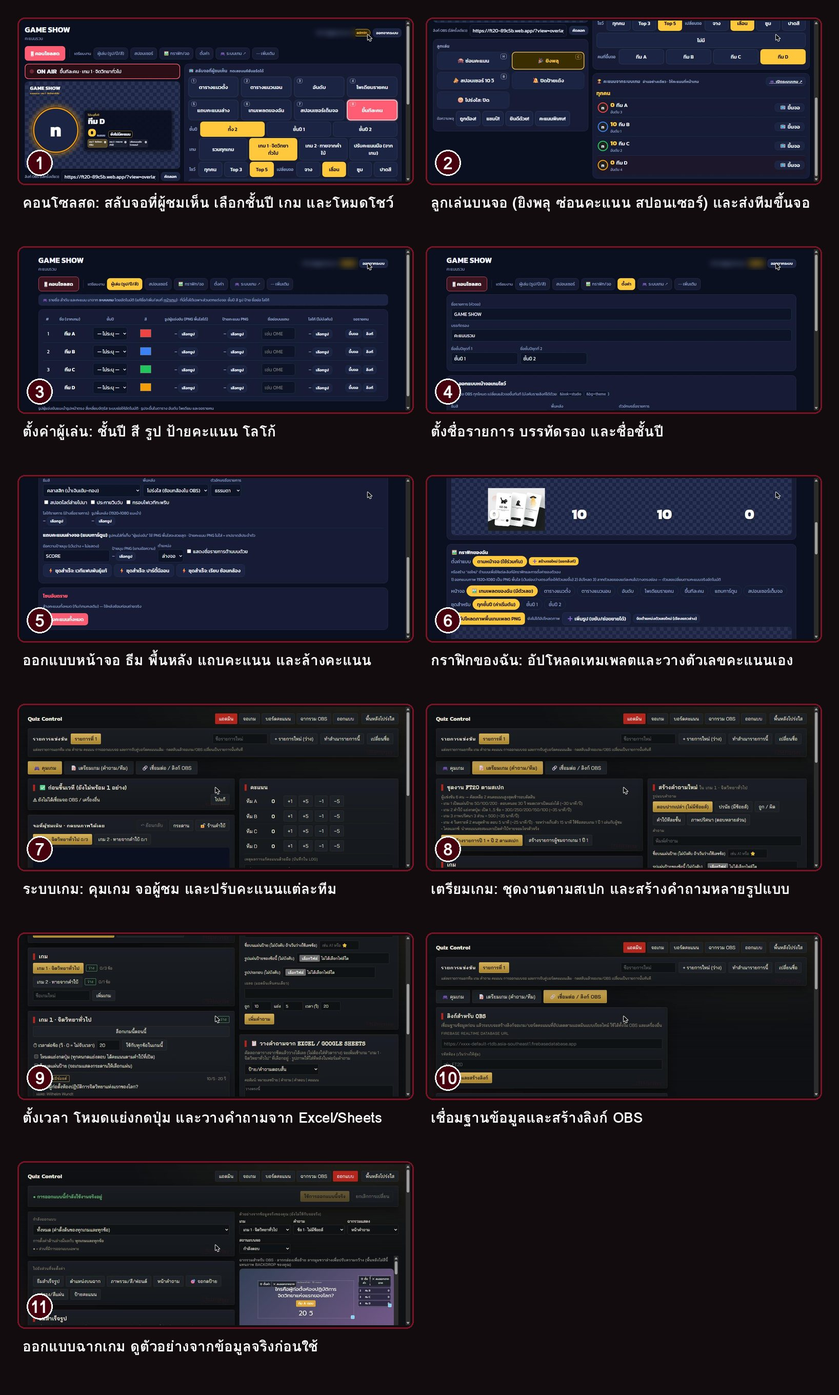
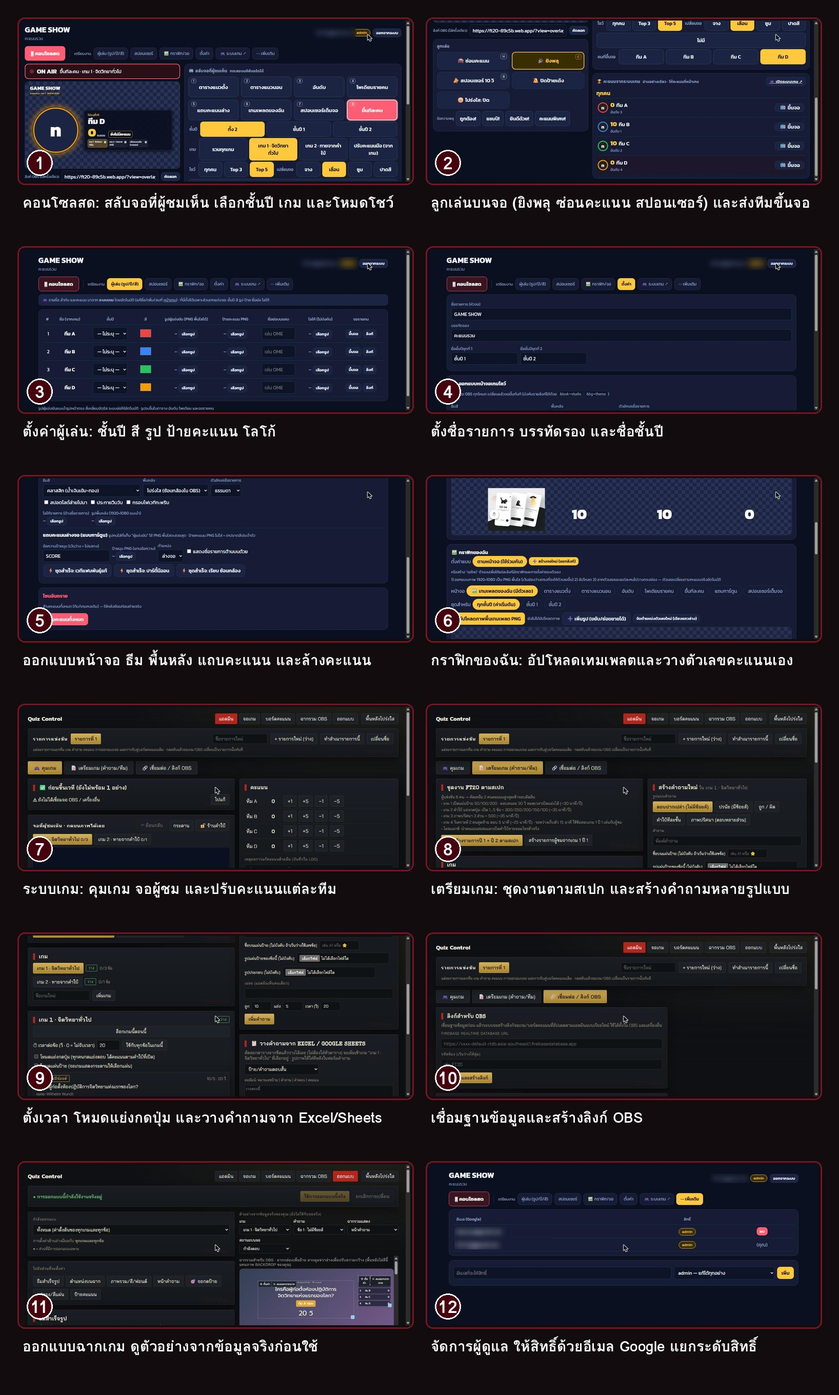
เพิ่มหน้าหลังบ้านที่ขาด: เกียรติบัตร แผนผัง ผู้ดูแล
Claude-Session: https://claude.ai/code/session_01VgfHAMhYG5DNCbxUEYJbTf

Changed region(s): [[0.4988, 0.8125, 0.9664, 0.9688]]

diff --git a/index.html b/index.html
@@ -301,7 +301,7 @@ body.has-bar{padding-bottom:84px}
 <script src="https://www.gstatic.com/firebasejs/10.12.2/firebase-storage-compat.js"></script>
 <script src="firebase-config.js"></script>
 <script>try{ if (window.FIREBASE_CONFIG && window.FIREBASE_CONFIG.apiKey && !/YOUR_/.test(window.FIREBASE_CONFIG.apiKey)) firebase.initializeApp(window.FIREBASE_CONFIG); }catch(e){}</script>
-<script type="application/json" id="seed">{"v": 1, "profile": {"brand": "Daonuea", "name": "Thanawat Sangnon", "tagline": "เล่าโจทย์มา แล้วมาสร้างของที่ใช้งานจริงไปด้วยกัน", "note": "เว็บนี้และผลงานทั้งหมดสร้างด้วย AI", "contacts": [{"label": "LINE", "value": "nasa532", "url": "https://line.me/ti/p/~nasa532"}, {"label": "โทร", "value": "063 161 2417"}, {"label": "อีเมล", "value": "hh7uiijj@gmail.com"}, {"label": "Instagram", "value": "n.uueeaa", "url": "https://www.instagram.com/n.uueeaa/"}, {"label": "Facebook", "value": "Thanawat Sangnon"}]}, "folders": [{"id": "code", "name": "เว็บเขียนโค้ด", "en": "Web & Code", "color": "#C8102E", "layout": "cards", "desc": "เว็บแอปและระบบที่ใช้งานจริง กดการ์ดเพื่อดูว่าทำงานยังไง ใช้ระบบอะไร และขั้นตอนการใช้งาน"}, {"id": "video", "name": "วิดีโอ", "en": "Video", "color": "#E9C9A1", "layout": "gallery", "desc": "คลิปและงานตัดต่อ"}, {"id": "info", "name": "อินโฟกราฟิก", "en": "Infographic", "color": "#F0B8C2", "layout": "gallery", "desc": "งานสรุปข้อมูลเป็นภาพ"}, {"id": "motion", "name": "โมชันกราฟิก", "en": "Motion Graphic", "color": "#A9B8D6", "layout": "gallery", "desc": "งานภาพเคลื่อนไหว"}, {"id": "photo", "name": "ภาพถ่าย", "en": "Photography", "color": "#D9D2C5", "layout": "gallery", "desc": "งานถ่ายภาพ"}], "works": [{"id": "w-psych", "folder": "code", "title": "Psych-Match", "sub": "เกม · ใช้งานจริง", "summary": "เกมจับคู่ไพ่ใน LINE ให้จับคู่นักจิตวิทยากับทฤษฎีให้ครบ 8 คู่ จากไพ่ 16 ใบ", "how": ["เปิดเกมจากลิงก์ใน LINE แล้วกดเริ่ม", "กระดานมีไพ่ 16 ใบคว่ำอยู่ พลิกได้ทีละ 2 ใบ", "จับคู่นักจิตวิทยากับทฤษฎีให้ครบ 8 คู่", "จบเกมแล้วดูสรุปพร้อมคำอธิบาย และแชร์ผลได้"], "system": ["LINE LIFF เปิดในแอป LINE ได้เลย ไม่ต้องติดตั้งเพิ่ม", "เว็บเกมที่ทำงานในเบราว์เซอร์มือถือ", "สร้างด้วย AI"], "benefit": ["ทบทวนนักจิตวิทยาและทฤษฎีผ่านการเล่น", "เล่นจบได้ในไม่กี่นาที", "แชร์ผลให้เพื่อนมาเล่นต่อได้"], "tags": ["LINE LIFF", "Web game"], "link": "https://liff.line.me/2012402403-AfPHXGeh", "linkLabel": "เปิดเกม", "media": [{"type": "image", "src": "media/psych-cover.jpg", "w": 1280, "h": 529}, {"type": "image", "src": "media/psych-steps.jpg", "w": 1600, "h": 914, "cap": "ขั้นตอนการเล่น"}], "purpose": "ให้ผู้เล่นทบทวนนักจิตวิทยาและทฤษฎีผ่านเกมจับคู่ไพ่ ที่เล่นได้ในแอป LINE โดยไม่ต้องติดตั้งอะไรเพิ่ม", "details": ["เกมไพ่ 16 ใบ รวมเป็น 8 คู่ ระหว่างนักจิตวิทยากับทฤษฎี", "เปิดเล่นจากลิงก์ใน LINE ผ่าน LINE LIFF", "พลิกไพ่ได้ทีละ 2 ใบ จบเกมแล้วมีหน้าสรุปพร้อมคำอธิบาย", "แชร์ผลให้เพื่อนมาเล่นต่อได้", "สร้างด้วย AI"]}, {"id": "w-ft20", "folder": "code", "title": "FT20 Quiz & Scoreboard", "sub": "เกม · ใช้งานจริง", "summary": "เกมตอบคำถามและบอร์ดคะแนนสำหรับงานแฟนพันธุ์แท้จิตวิทยา ครั้งที่ 20 ส่งภาพขึ้นจอเวทีผ่าน OBS", "how": ["ทีมงานคุมเกมและเปิดคำถามจากหน้าควบคุม", "ให้หรือหักคะแนนแต่ละทีม บอร์ดอัปเดตทันที", "จอบอร์ดคะแนนส่งขึ้นจอเวทีผ่าน OBS"], "system": ["Firebase Hosting", "หน้าควบคุมกับจอแสดงผลแยกกัน", "ใช้กับ OBS ได้", "สร้างด้วย AI"], "benefit": ["คุมเกมบนเวทีได้จากเครื่องเดียว", "ผู้ชมเห็นคะแนนสดตลอดเกม", "ใช้ซ้ำได้กับหลายรอบการแข่ง"], "tags": ["Firebase", "OBS"], "link": "https://ft20-89c5b.web.app", "linkLabel": "เปิดเว็บ", "media": [{"type": "image", "src": "media/ft20-cover.jpg", "w": 896, "h": 370}, {"type": "image", "src": "media/ft20-control.jpg", "w": 896, "h": 370, "cap": "หน้าควบคุมเกม"}, {"type": "image", "src": "media/ft20-steps.jpg", "w": 1396, "h": 2555, "cap": "ขั้นตอนการใช้งาน"}, {"type": "image", "src": "media/ft20-admin.jpg", "w": 1636, "h": 2720, "cap": "ระบบหลังบ้าน (เบลอข้อมูลส่วนตัวแล้ว)"}], "purpose": "ใช้คุมเกมตอบคำถามและแสดงคะแนนสดบนเวทีของงานแฟนพันธุ์แท้จิตวิทยา ครั้งที่ 20", "details": ["แยกเป็นหน้าควบคุมสำหรับทีมงาน กับจอบอร์ดคะแนนสำหรับผู้ชม", "ทีมงานเปิดคำถาม ให้หรือหักคะแนนแต่ละทีม บอร์ดอัปเดตทันที", "ส่งภาพจอบอร์ดขึ้นจอเวทีผ่าน OBS", "โฮสต์บน Firebase Hosting ใช้ซ้ำได้กับหลายรอบการแข่ง", "สร้างด้วย AI"]}, {"id": "w-case20", "folder": "code", "title": "CASE 20 แฟ้มคดีปริศนา", "sub": "เกม · ทำเสร็จแล้ว", "summary": "เกมสืบสวนบนมือถือ เล่นเป็นนักสืบ ตรวจหลักฐาน และไขคดีให้ได้ภายใน 15 นาที", "how": ["ผู้เล่นรับแฟ้มคดีบนมือถือ และรับบทเป็นนักสืบ", "ไล่ตรวจหลักฐานทีละชิ้นเพื่อหาเบาะแส", "สรุปคำตอบ แล้วไขคดีภายใน 15 นาที"], "system": ["เว็บหน้าเดียวที่เปิดในเบราว์เซอร์มือถือ ไม่ต้องติดตั้งแอป", "ธีมแฟ้มคดีสีดำ-เหลือง", "สร้างด้วย AI"], "benefit": ["เป็นกิจกรรมเกมสืบสวนที่เล่นจบไว", "เล่นได้ทันทีจากลิงก์เดียว", "ฝึกสังเกต คิดวิเคราะห์ และสรุปคำตอบ"], "tags": ["Mobile web", "Game"], "link": "https://claude.ai/artifact/5Rtr4K4ATSGaCnp6dkQroZ", "linkLabel": "เปิดเกม", "media": [{"type": "image", "src": "media/case20-cover.jpg", "w": 896, "h": 370}, {"type": "image", "src": "media/case20-steps.jpg", "w": 1600, "h": 1350, "cap": "ขั้นตอนการเล่น"}], "purpose": "เป็นกิจกรรมเกมสืบสวนที่เล่นจบเร็ว ฝึกสังเกต คิดวิเคราะห์ และสรุปคำตอบ", "details": ["ผู้เล่นรับบทเป็นนักสืบ เปิดแฟ้มคดีบนมือถือ", "ไล่ตรวจหลักฐานทีละชิ้นเพื่อหาเบาะแส", "ต้องสรุปและไขคดีให้ได้ภายใน 15 นาที", "เว็บหน้าเดียว เปิดจากลิงก์ได้ทันที ไม่ต้องติดตั้งแอป", "ธีมแฟ้มคดีสีดำ-เหลือง · สร้างด้วย AI"]}, {"id": "w-student", "folder": "code", "title": "ระบบกิจการนักศึกษา", "sub": "เว็บหน่วยงาน · ใช้งานจริง", "summary": "เว็บให้นักศึกษาลงทะเบียน เช็กอินเข้าร่วมกิจกรรม และนับชั่วโมงสะสมในที่เดียว", "how": ["นักศึกษาลงทะเบียนเข้าใช้งาน", "เช็กอินเมื่อเข้าร่วมกิจกรรม", "ระบบนับชั่วโมงกิจกรรมสะสมให้"], "system": ["Firebase เก็บข้อมูลและโฮสต์เว็บ", "มีคู่มือการใช้งานภาษาไทย", "สร้างด้วย AI"], "benefit": ["ข้อมูลกิจกรรมอยู่ที่เดียว", "นับชั่วโมงอัตโนมัติ ลดงานเอกสาร", "ส่งมอบพร้อมคู่มือ หน่วยงานใช้ต่อได้เอง"], "tags": ["Firebase"], "link": "https://gitjha-d8454.web.app", "linkLabel": "เปิดเว็บ", "media": [{"type": "image", "src": "media/student-cover.jpg", "w": 896, "h": 370}, {"type": "image", "src": "media/student-steps.jpg", "w": 1396, "h": 2168, "cap": "ขั้นตอนการใช้งาน"}, {"type": "image", "src": "media/student-admin.jpg", "w": 1636, "h": 2384, "cap": "ระบบหลังบ้าน (เบลอข้อมูลส่วนตัวแล้ว)"}], "purpose": "รวมการลงทะเบียน เช็กอินกิจกรรม และนับชั่วโมงสะสมของนักศึกษาไว้ในที่เดียว เพื่อลดงานเอกสารของหน่วยงาน", "details": ["นักศึกษาลงทะเบียนเข้าใช้งาน แล้วเช็กอินเมื่อเข้าร่วมกิจกรรม", "ระบบนับชั่วโมงกิจกรรมสะสมให้อัตโนมัติ", "ใช้ Firebase เก็บข้อมูลและโฮสต์เว็บ", "ส่งมอบพร้อมคู่มือการใช้งานภาษาไทย ให้หน่วยงานใช้ต่อเองได้", "สร้างด้วย AI"]}, {"id": "w-counsel", "folder": "code", "title": "ศูนย์ให้คำปรึกษา มสด.", "sub": "เว็บหน่วยงาน · กำลังทดลองใช้", "summary": "เว็บจองคิวรับคำปรึกษา ผู้รับบริการเลือกวันศุกร์ ผู้ให้คำปรึกษาลงเวรเอง", "how": ["ผู้รับบริการเลือกวันศุกร์และกรอกฟอร์มจอง", "ผู้ให้คำปรึกษาลงเวรเอง ช่วงละ 2 ที่นั่ง", "ลงครบ 2 คน ช่วงนั้นจึงเปิดให้จอง", "แอดมินดูคิวและส่งข้อความเข้ากลุ่ม LINE ได้"], "system": ["Vercel โฮสต์เว็บ", "Supabase เป็นฐานข้อมูล", "LINE Login (LIFF) สำหรับแท็กผู้ให้คำปรึกษา", "อัปโหลดรูปจากเครื่องได้"], "benefit": ["ผู้รับบริการเห็นเฉพาะช่วงที่จองได้", "จำกัดไม่เกิน 4 เวรต่อคน", "แอดมินคนเดียวดูแลระบบได้"], "tags": ["Vercel", "Supabase", "LINE LIFF"], "link": "https://counseling-chi.vercel.app/", "linkLabel": "เปิดเว็บ", "media": [{"type": "image", "src": "media/counsel-cover.jpg", "w": 1280, "h": 529}, {"type": "image", "src": "media/counsel-steps.jpg", "w": 1600, "h": 2144, "cap": "ขั้นตอนการใช้งาน"}, {"type": "image", "src": "media/counsel-admin.jpg", "w": 1636, "h": 2720, "cap": "ระบบหลังบ้าน (เบลอข้อมูลส่วนตัวแล้ว)"}], "purpose": "ให้ผู้รับบริการจองคิวคำปรึกษาได้เอง และให้ผู้ให้คำปรึกษาลงเวรเอง โดยมีแอดมินคนเดียวดูแลระบบได้", "details": ["ผู้รับบริการเลือกวันศุกร์ แล้วกรอกฟอร์มจอง", "ผู้ให้คำปรึกษาลงเวรเอง ช่วงละ 2 ที่นั่ง ลงครบ 2 คนช่วงนั้นจึงเปิดให้จอง", "จำกัดไม่เกิน 4 เวรต่อคน", "แอดมินดูคิวและส่งข้อความเข้ากลุ่ม LINE ได้", "ใช้ Vercel, Supabase และ LINE Login (LIFF) · อัปโหลดรูปจากเครื่องได้", "สถานะ: กำลังทดลองใช้"]}, {"id": "w-research", "folder": "code", "title": "คลังงานวิจัย", "sub": "เว็บหน่วยงาน · ใช้งานจริง", "summary": "เว็บรวมงานวิจัย ค้นหา กรองตามรุ่น และอ่านออนไลน์แบบพลิกหน้าหนังสือ", "how": ["ค้นหางานวิจัยจากชื่อหรือคำค้น", "กรองตามรุ่นที่สนใจ", "อ่านออนไลน์แบบพลิกหน้าหนังสือ"], "system": ["โฮสต์บน Vercel", "ตัวอ่านแบบพลิกหน้า (flipbook) ในเบราว์เซอร์", "สร้างด้วย AI"], "benefit": ["งานวิจัยอยู่ที่เดียว จัดตามรุ่น", "อ่านได้ทันทีในเบราว์เซอร์", "หน่วยงานใช้เป็นคลังเก็บงานได้จริง"], "tags": ["Vercel", "Flipbook"], "link": "https://psyio-research-archive-4yto1ylgq-tanawat1.vercel.app/?batch=64", "linkLabel": "เปิดเว็บ", "media": [{"type": "image", "src": "media/research-cover.jpg", "w": 896, "h": 370}, {"type": "image", "src": "media/research-steps.jpg", "w": 1600, "h": 479, "cap": "ขั้นตอนการใช้งาน"}, {"type": "image", "src": "media/research-admin.jpg", "w": 1636, "h": 1382, "cap": "ระบบหลังบ้าน (เบลอข้อมูลส่วนตัวแล้ว)"}], "purpose": "เป็นคลังเก็บงานวิจัยของหน่วยงาน ให้ค้นหาและอ่านออนไลน์ได้ในที่เดียว", "details": ["ค้นหางานวิจัยจากชื่อหรือคำค้น", "กรองตามรุ่นที่สนใจ", "อ่านออนไลน์แบบพลิกหน้าหนังสือ (flipbook) ในเบราว์เซอร์", "โฮสต์บน Vercel · สร้างด้วย AI"]}, {"id": "w-booth", "folder": "code", "title": "Bordeaux Booth", "sub": "เครื่องมือ · ใช้งานจริง", "summary": "ตู้ถ่ายรูปออนไลน์ ถ่ายเดี่ยวหรือหลายกล้อง แต่งกรอบ สติกเกอร์ แล้วบันทึกลงเครื่อง", "how": ["เลือกโหมดและกรอบ แล้วอนุญาตกล้อง", "ถ่ายเดี่ยวหรือถ่ายกลุ่มด้วยกล้องตัวเดียว", "สร้างห้องหลายกล้องด้วยรหัส 6 หลัก", "แต่งกรอบ สติกเกอร์ ข้อความ แล้วบันทึก"], "system": ["รันบนเบราว์เซอร์ ไม่ต้องติดตั้งแอป", "ประมวลผลภาพบนเครื่องผู้ใช้", "Firebase Hosting"], "benefit": ["ไม่เก็บรูปไว้บนคลาวด์", "ใช้ฟรี ไม่ต้องติดตั้ง", "ถ่ายหลายมุมได้ด้วยหลายกล้อง"], "tags": ["Firebase", "Camera"], "link": "https://photobooth-35ff4.web.app", "linkLabel": "เปิดเว็บ", "media": [{"type": "image", "src": "media/booth-cover.jpg", "w": 1280, "h": 529}, {"type": "image", "src": "media/booth-steps.jpg", "w": 1600, "h": 4557, "cap": "ขั้นตอนการใช้งาน"}], "purpose": "ให้ทุกคนถ่ายรูปแบบตู้ถ่ายรูปได้ในเบราว์เซอร์ ฟรี ไม่ต้องติดตั้งแอป และไม่เก็บรูปไว้บนคลาวด์", "details": ["โหมดถ่ายเดี่ยว ถ่ายกลุ่มด้วยกล้องตัวเดียว หรือสร้างห้องหลายกล้องด้วยรหัส 6 หลัก", "เลือกกรอบ ใส่สติกเกอร์และข้อความ แล้วบันทึกลงเครื่อง", "ประมวลผลภาพบนเครื่องผู้ใช้", "โฮสต์บน Firebase Hosting"]}, {"id": "w-gift", "folder": "code", "title": "ขอเป็นแฟน (เว็บของขวัญ)", "sub": "ร้านค้า · ใช้งานจริง", "summary": "เว็บของขวัญที่ผู้ซื้อแต่งข้อความ เพลง และจดหมาย แล้วส่งให้คนพิเศษด้วยลิงก์เดียว", "how": ["ผู้ซื้อเขียนข้อความ เลือกเพลง จดหมาย และสไตล์", "ได้ลิงก์ไปส่งให้คนพิเศษ", "ผู้รับเปิดซอง อ่านจดหมาย และฟังเพลง"], "system": ["Firebase เป็นระบบหลังบ้าน", "ชำระผ่านพร้อมเพย์ ตรวจสลิปแล้วจึงส่งลิงก์", "สร้างด้วย AI"], "benefit": ["ไม่ต้องล็อกอินให้ยุ่งยาก", "ส่งของขวัญได้ด้วยลิงก์เดียว", "ปรับแต่งข้อความ เพลง และสไตล์ได้"], "tags": ["Firebase", "PromptPay"], "link": "https://warilove-64b8c.web.app/", "linkLabel": "เปิดเว็บ", "media": [{"type": "image", "src": "media/gift-cover.jpg", "w": 1280, "h": 529}, {"type": "image", "src": "media/gift-steps.jpg", "w": 1600, "h": 914, "cap": "ขั้นตอนการใช้งาน"}], "purpose": "ให้ผู้ซื้อทำของขวัญออนไลน์ส่วนตัว ด้วยข้อความ เพลง และจดหมายของตัวเอง แล้วส่งให้คนพิเศษด้วยลิงก์เดียว", "details": ["ผู้ซื้อเขียนข้อความ เลือกเพลง จดหมาย และสไตล์", "ชำระเงินผ่านพร้อมเพย์ ตรวจสลิปแล้วจึงส่งลิงก์ให้", "ผู้รับเปิดซอง อ่านจดหมาย และฟังเพลง", "ไม่ต้องล็อกอินให้ยุ่งยาก", "ใช้ Firebase เป็นระบบหลังบ้าน · สร้างด้วย AI"]}, {"id": "w-audio", "folder": "code", "title": "หนังสือเสียง", "sub": "เว็บแพลตฟอร์ม · ใช้งานจริง", "summary": "นักเขียนโพสต์บท นักลงเสียงอัดเสียง และผู้ฟังฟังได้ฟรี", "how": ["นักเขียนโพสต์บท เช่น นิทาน บทความ เรื่องสั้น หนังสือ", "นักลงเสียงเลือกตอนแล้วอัดเสียง บทเดียวมีหลายเวอร์ชันได้", "ผู้ฟังติดตามนักเขียนและนักลงเสียง แล้วฟังฟรี"], "system": ["Vercel โฮสต์เว็บ", "Supabase เก็บข้อมูลและระบบล็อกอิน", "แจ้งลบงานละเมิดลิขสิทธิ์ผ่านเว็บ"], "benefit": ["เป็นพอร์ตให้นักเขียนและนักลงเสียง", "ฟังฟรี ผู้พิการทางสายตาเข้าถึงได้", "สร้างร่วมกันแบบอาสา"], "tags": ["Vercel", "Supabase"], "link": "https://nangsue-siang.vercel.app", "linkLabel": "เปิดเว็บ", "media": [{"type": "image", "src": "media/audio-cover.jpg", "w": 1280, "h": 529}, {"type": "image", "src": "media/audio-steps.jpg", "w": 1600, "h": 1555, "cap": "ขั้นตอนการใช้งาน"}], "purpose": "เป็นพื้นที่สร้างหนังสือเสียงร่วมกันแบบอาสา ให้นักเขียนกับนักลงเสียงมาเจอกัน และให้ผู้ฟังฟังได้ฟรี", "details": ["นักเขียนโพสต์บท เช่น นิทาน บทความ เรื่องสั้น หนังสือ", "นักลงเสียงเลือกตอนแล้วอัดเสียง บทเดียวมีหลายเวอร์ชันได้", "ผู้ฟังติดตามนักเขียนและนักลงเสียง แล้วฟังฟรี ผู้พิการทางสายตาเข้าถึงได้", "มีช่องทางแจ้งลบงานละเมิดลิขสิทธิ์ผ่านเว็บ", "ใช้ Vercel และ Supabase (ข้อมูลและระบบล็อกอิน)"]}, {"id": "w-team", "folder": "code", "title": "เลือกทีม FT20", "sub": "เครื่องมือ · ทำเสร็จแล้ว", "summary": "ฟอร์มให้สมาชิกเลือกทีมอันดับ 1 และ 2 ให้แอดมินดูผลสรุปก่อนจัดทีม", "how": ["สมาชิกเปิดฟอร์มและเลือกชื่อตัวเอง", "เลือกทีมอันดับ 1 และ 2 แล้วกดส่ง", "แอดมินดูผลทีมล่าสุดได้ในหน้าเดียว"], "system": ["Google Apps Script เป็นเว็บแอป", "Google Sheets เก็บคำตอบ", "สร้างด้วย AI"], "benefit": ["รวมความต้องการของทุกคนไว้ที่เดียว", "เห็นอันดับ 1 และ 2 ก่อนจัดทีม", "ใช้ฟรี ไม่ต้องมีเซิร์ฟเวอร์เอง"], "tags": ["Apps Script", "Google Sheets"], "link": "https://script.google.com/macros/s/AKfycbz0T4jRHH7WRdaFvMmmVgRewIBdmxO30Ai-01auACX4EjLFcs1Ut-0WgAr3H-kJeeo0/exec", "linkLabel": "เปิดฟอร์ม", "media": [{"type": "image", "src": "media/team-cover.jpg", "w": 896, "h": 370}, {"type": "image", "src": "media/team-steps.jpg", "w": 1600, "h": 476, "cap": "ขั้นตอนการใช้งาน"}], "purpose": "รวมความต้องการของสมาชิกไว้ที่เดียว เพื่อให้แอดมินดูผลสรุปก่อนจัดทีม FT20", "details": ["สมาชิกเปิดฟอร์มและเลือกชื่อตัวเอง", "เลือกทีมอันดับ 1 และอันดับ 2 แล้วกดส่ง", "แอดมินดูผลทีมล่าสุดได้ในหน้าเดียว", "ใช้ Google Apps Script เป็นเว็บแอป และเก็บคำตอบใน Google Sheets", "สร้างด้วย AI"]}, {"id": "w-coursehub", "folder": "code", "title": "CourseHub — ระบบบริหารหลักสูตร", "sub": "ระบบบริหารงาน", "summary": "เว็บรวมการจัดการงาน ประกาศ ปฏิทิน การเงิน และสมาชิกของทุกฝ่ายไว้ในที่เดียว", "purpose": "ให้ทีมจัดหลักสูตรจัดการงาน ประสานทีม ติดตามเงิน และดูแลสมาชิกทุกฝ่ายได้ในที่เดียว", "details": ["มี 11 ฝ่ายงาน มอบหมายงานให้หลายฝ่าย ตั้งความสำคัญและกำหนดส่งได้", "มีประกาศ ปฏิทินกิจกรรม การลงทะเบียนกิจกรรม และบันทึกการประชุม", "การเงิน: รายรับ รายจ่าย ยอดคงเหลือ งบแต่ละฝ่าย และรายชื่อผู้ยังไม่จ่ายเงิน", "สร้างแบบฟอร์ม แชร์ลิงก์ ดูผลตอบกลับ และมีห้องแชท", "หัวหน้าฝ่ายอนุมัติงาน มีประวัติการใช้งาน ห้อง Admin และคู่มือแยกตามบทบาท", "สลับโหมดสว่าง/มืดได้ ข้อมูลในภาพเป็นข้อมูลทดสอบ", "สร้างด้วย AI"], "how": ["เข้าสู่ระบบด้วยรหัสสมาชิก", "ดูแดชบอร์ดสรุปงาน ประกาศ และการเงิน", "มอบหมายงานให้ฝ่ายต่างๆ แล้วติดตามผล"], "system": ["Firebase (Sync ข้อมูลแบบเรียลไทม์)", "เว็บแอปบน Firebase Hosting", "สร้างด้วย AI"], "benefit": ["รวมงานของทุกฝ่ายไว้ที่เดียว", "เห็นงบและยอดเงินชัดเจน", "แยกสิทธิ์ตามบทบาท"], "tags": ["Firebase"], "link": "https://papa-411de.web.app/", "linkLabel": "เปิดเว็บ", "media": [{"type": "image", "src": "media/coursehub-cover.jpg", "w": 1280, "h": 507}, {"type": "image", "src": "media/coursehub-steps.jpg", "w": 1600, "h": 2845, "cap": "ขั้นตอนการใช้งาน"}]}]}</script>
+<script type="application/json" id="seed">{"v": 1, "profile": {"brand": "Daonuea", "name": "Thanawat Sangnon", "tagline": "เล่าโจทย์มา แล้วมาสร้างของที่ใช้งานจริงไปด้วยกัน", "note": "เว็บนี้และผลงานทั้งหมดสร้างด้วย AI", "contacts": [{"label": "LINE", "value": "nasa532", "url": "https://line.me/ti/p/~nasa532"}, {"label": "โทร", "value": "063 161 2417"}, {"label": "อีเมล", "value": "hh7uiijj@gmail.com"}, {"label": "Instagram", "value": "n.uueeaa", "url": "https://www.instagram.com/n.uueeaa/"}, {"label": "Facebook", "value": "Thanawat Sangnon"}]}, "folders": [{"id": "code", "name": "เว็บเขียนโค้ด", "en": "Web & Code", "color": "#C8102E", "layout": "cards", "desc": "เว็บแอปและระบบที่ใช้งานจริง กดการ์ดเพื่อดูว่าทำงานยังไง ใช้ระบบอะไร และขั้นตอนการใช้งาน"}, {"id": "video", "name": "วิดีโอ", "en": "Video", "color": "#E9C9A1", "layout": "gallery", "desc": "คลิปและงานตัดต่อ"}, {"id": "info", "name": "อินโฟกราฟิก", "en": "Infographic", "color": "#F0B8C2", "layout": "gallery", "desc": "งานสรุปข้อมูลเป็นภาพ"}, {"id": "motion", "name": "โมชันกราฟิก", "en": "Motion Graphic", "color": "#A9B8D6", "layout": "gallery", "desc": "งานภาพเคลื่อนไหว"}, {"id": "photo", "name": "ภาพถ่าย", "en": "Photography", "color": "#D9D2C5", "layout": "gallery", "desc": "งานถ่ายภาพ"}], "works": [{"id": "w-psych", "folder": "code", "title": "Psych-Match", "sub": "เกม · ใช้งานจริง", "summary": "เกมจับคู่ไพ่ใน LINE ให้จับคู่นักจิตวิทยากับทฤษฎีให้ครบ 8 คู่ จากไพ่ 16 ใบ", "how": ["เปิดเกมจากลิงก์ใน LINE แล้วกดเริ่ม", "กระดานมีไพ่ 16 ใบคว่ำอยู่ พลิกได้ทีละ 2 ใบ", "จับคู่นักจิตวิทยากับทฤษฎีให้ครบ 8 คู่", "จบเกมแล้วดูสรุปพร้อมคำอธิบาย และแชร์ผลได้"], "system": ["LINE LIFF เปิดในแอป LINE ได้เลย ไม่ต้องติดตั้งเพิ่ม", "เว็บเกมที่ทำงานในเบราว์เซอร์มือถือ", "สร้างด้วย AI"], "benefit": ["ทบทวนนักจิตวิทยาและทฤษฎีผ่านการเล่น", "เล่นจบได้ในไม่กี่นาที", "แชร์ผลให้เพื่อนมาเล่นต่อได้"], "tags": ["LINE LIFF", "Web game"], "link": "https://liff.line.me/2012402403-AfPHXGeh", "linkLabel": "เปิดเกม", "media": [{"type": "image", "src": "media/psych-cover.jpg", "w": 1280, "h": 529}, {"type": "image", "src": "media/psych-steps.jpg", "w": 1600, "h": 914, "cap": "ขั้นตอนการเล่น"}], "purpose": "ให้ผู้เล่นทบทวนนักจิตวิทยาและทฤษฎีผ่านเกมจับคู่ไพ่ ที่เล่นได้ในแอป LINE โดยไม่ต้องติดตั้งอะไรเพิ่ม", "details": ["เกมไพ่ 16 ใบ รวมเป็น 8 คู่ ระหว่างนักจิตวิทยากับทฤษฎี", "เปิดเล่นจากลิงก์ใน LINE ผ่าน LINE LIFF", "พลิกไพ่ได้ทีละ 2 ใบ จบเกมแล้วมีหน้าสรุปพร้อมคำอธิบาย", "แชร์ผลให้เพื่อนมาเล่นต่อได้", "สร้างด้วย AI"]}, {"id": "w-ft20", "folder": "code", "title": "FT20 Quiz & Scoreboard", "sub": "เกม · ใช้งานจริง", "summary": "เกมตอบคำถามและบอร์ดคะแนนสำหรับงานแฟนพันธุ์แท้จิตวิทยา ครั้งที่ 20 ส่งภาพขึ้นจอเวทีผ่าน OBS", "how": ["ทีมงานคุมเกมและเปิดคำถามจากหน้าควบคุม", "ให้หรือหักคะแนนแต่ละทีม บอร์ดอัปเดตทันที", "จอบอร์ดคะแนนส่งขึ้นจอเวทีผ่าน OBS"], "system": ["Firebase Hosting", "หน้าควบคุมกับจอแสดงผลแยกกัน", "ใช้กับ OBS ได้", "สร้างด้วย AI"], "benefit": ["คุมเกมบนเวทีได้จากเครื่องเดียว", "ผู้ชมเห็นคะแนนสดตลอดเกม", "ใช้ซ้ำได้กับหลายรอบการแข่ง"], "tags": ["Firebase", "OBS"], "link": "https://ft20-89c5b.web.app", "linkLabel": "เปิดเว็บ", "media": [{"type": "image", "src": "media/ft20-cover.jpg", "w": 896, "h": 370}, {"type": "image", "src": "media/ft20-control.jpg", "w": 896, "h": 370, "cap": "หน้าควบคุมเกม"}, {"type": "image", "src": "media/ft20-steps.jpg", "w": 1396, "h": 2555, "cap": "ขั้นตอนการใช้งาน"}, {"type": "image", "src": "media/ft20-admin.jpg", "w": 1636, "h": 2720, "cap": "ระบบหลังบ้าน (เบลอข้อมูลส่วนตัวแล้ว)"}], "purpose": "ใช้คุมเกมตอบคำถามและแสดงคะแนนสดบนเวทีของงานแฟนพันธุ์แท้จิตวิทยา ครั้งที่ 20", "details": ["แยกเป็นหน้าควบคุมสำหรับทีมงาน กับจอบอร์ดคะแนนสำหรับผู้ชม", "ทีมงานเปิดคำถาม ให้หรือหักคะแนนแต่ละทีม บอร์ดอัปเดตทันที", "ส่งภาพจอบอร์ดขึ้นจอเวทีผ่าน OBS", "โฮสต์บน Firebase Hosting ใช้ซ้ำได้กับหลายรอบการแข่ง", "สร้างด้วย AI"]}, {"id": "w-case20", "folder": "code", "title": "CASE 20 แฟ้มคดีปริศนา", "sub": "เกม · ทำเสร็จแล้ว", "summary": "เกมสืบสวนบนมือถือ เล่นเป็นนักสืบ ตรวจหลักฐาน และไขคดีให้ได้ภายใน 15 นาที", "how": ["ผู้เล่นรับแฟ้มคดีบนมือถือ และรับบทเป็นนักสืบ", "ไล่ตรวจหลักฐานทีละชิ้นเพื่อหาเบาะแส", "สรุปคำตอบ แล้วไขคดีภายใน 15 นาที"], "system": ["เว็บหน้าเดียวที่เปิดในเบราว์เซอร์มือถือ ไม่ต้องติดตั้งแอป", "ธีมแฟ้มคดีสีดำ-เหลือง", "สร้างด้วย AI"], "benefit": ["เป็นกิจกรรมเกมสืบสวนที่เล่นจบไว", "เล่นได้ทันทีจากลิงก์เดียว", "ฝึกสังเกต คิดวิเคราะห์ และสรุปคำตอบ"], "tags": ["Mobile web", "Game"], "link": "https://claude.ai/artifact/5Rtr4K4ATSGaCnp6dkQroZ", "linkLabel": "เปิดเกม", "media": [{"type": "image", "src": "media/case20-cover.jpg", "w": 896, "h": 370}, {"type": "image", "src": "media/case20-steps.jpg", "w": 1600, "h": 1350, "cap": "ขั้นตอนการเล่น"}], "purpose": "เป็นกิจกรรมเกมสืบสวนที่เล่นจบเร็ว ฝึกสังเกต คิดวิเคราะห์ และสรุปคำตอบ", "details": ["ผู้เล่นรับบทเป็นนักสืบ เปิดแฟ้มคดีบนมือถือ", "ไล่ตรวจหลักฐานทีละชิ้นเพื่อหาเบาะแส", "ต้องสรุปและไขคดีให้ได้ภายใน 15 นาที", "เว็บหน้าเดียว เปิดจากลิงก์ได้ทันที ไม่ต้องติดตั้งแอป", "ธีมแฟ้มคดีสีดำ-เหลือง · สร้างด้วย AI"]}, {"id": "w-student", "folder": "code", "title": "ระบบกิจการนักศึกษา", "sub": "เว็บหน่วยงาน · ใช้งานจริง", "summary": "เว็บให้นักศึกษาลงทะเบียน เช็กอินเข้าร่วมกิจกรรม และนับชั่วโมงสะสมในที่เดียว", "how": ["นักศึกษาลงทะเบียนเข้าใช้งาน", "เช็กอินเมื่อเข้าร่วมกิจกรรม", "ระบบนับชั่วโมงกิจกรรมสะสมให้"], "system": ["Firebase เก็บข้อมูลและโฮสต์เว็บ", "มีคู่มือการใช้งานภาษาไทย", "สร้างด้วย AI"], "benefit": ["ข้อมูลกิจกรรมอยู่ที่เดียว", "นับชั่วโมงอัตโนมัติ ลดงานเอกสาร", "ส่งมอบพร้อมคู่มือ หน่วยงานใช้ต่อได้เอง"], "tags": ["Firebase"], "link": "https://gitjha-d8454.web.app", "linkLabel": "เปิดเว็บ", "media": [{"type": "image", "src": "media/student-cover.jpg", "w": 896, "h": 370}, {"type": "image", "src": "media/student-steps.jpg", "w": 1396, "h": 2168, "cap": "ขั้นตอนการใช้งาน"}, {"type": "image", "src": "media/student-admin.jpg", "w": 1636, "h": 3035, "cap": "ระบบหลังบ้าน (เบลอข้อมูลส่วนตัวแล้ว)"}], "purpose": "รวมการลงทะเบียน เช็กอินกิจกรรม และนับชั่วโมงสะสมของนักศึกษาไว้ในที่เดียว เพื่อลดงานเอกสารของหน่วยงาน", "details": ["นักศึกษาลงทะเบียนเข้าใช้งาน แล้วเช็กอินเมื่อเข้าร่วมกิจกรรม", "ระบบนับชั่วโมงกิจกรรมสะสมให้อัตโนมัติ", "ใช้ Firebase เก็บข้อมูลและโฮสต์เว็บ", "ส่งมอบพร้อมคู่มือการใช้งานภาษาไทย ให้หน่วยงานใช้ต่อเองได้", "สร้างด้วย AI"]}, {"id": "w-counsel", "folder": "code", "title": "ศูนย์ให้คำปรึกษา มสด.", "sub": "เว็บหน่วยงาน · กำลังทดลองใช้", "summary": "เว็บจองคิวรับคำปรึกษา ผู้รับบริการเลือกวันศุกร์ ผู้ให้คำปรึกษาลงเวรเอง", "how": ["ผู้รับบริการเลือกวันศุกร์และกรอกฟอร์มจอง", "ผู้ให้คำปรึกษาลงเวรเอง ช่วงละ 2 ที่นั่ง", "ลงครบ 2 คน ช่วงนั้นจึงเปิดให้จอง", "แอดมินดูคิวและส่งข้อความเข้ากลุ่ม LINE ได้"], "system": ["Vercel โฮสต์เว็บ", "Supabase เป็นฐานข้อมูล", "LINE Login (LIFF) สำหรับแท็กผู้ให้คำปรึกษา", "อัปโหลดรูปจากเครื่องได้"], "benefit": ["ผู้รับบริการเห็นเฉพาะช่วงที่จองได้", "จำกัดไม่เกิน 4 เวรต่อคน", "แอดมินคนเดียวดูแลระบบได้"], "tags": ["Vercel", "Supabase", "LINE LIFF"], "link": "https://counseling-chi.vercel.app/", "linkLabel": "เปิดเว็บ", "media": [{"type": "image", "src": "media/counsel-cover.jpg", "w": 1280, "h": 529}, {"type": "image", "src": "media/counsel-steps.jpg", "w": 1600, "h": 2144, "cap": "ขั้นตอนการใช้งาน"}, {"type": "image", "src": "media/counsel-admin.jpg", "w": 1636, "h": 2720, "cap": "ระบบหลังบ้าน (เบลอข้อมูลส่วนตัวแล้ว)"}], "purpose": "ให้ผู้รับบริการจองคิวคำปรึกษาได้เอง และให้ผู้ให้คำปรึกษาลงเวรเอง โดยมีแอดมินคนเดียวดูแลระบบได้", "details": ["ผู้รับบริการเลือกวันศุกร์ แล้วกรอกฟอร์มจอง", "ผู้ให้คำปรึกษาลงเวรเอง ช่วงละ 2 ที่นั่ง ลงครบ 2 คนช่วงนั้นจึงเปิดให้จอง", "จำกัดไม่เกิน 4 เวรต่อคน", "แอดมินดูคิวและส่งข้อความเข้ากลุ่ม LINE ได้", "ใช้ Vercel, Supabase และ LINE Login (LIFF) · อัปโหลดรูปจากเครื่องได้", "สถานะ: กำลังทดลองใช้"]}, {"id": "w-research", "folder": "code", "title": "คลังงานวิจัย", "sub": "เว็บหน่วยงาน · ใช้งานจริง", "summary": "เว็บรวมงานวิจัย ค้นหา กรองตามรุ่น และอ่านออนไลน์แบบพลิกหน้าหนังสือ", "how": ["ค้นหางานวิจัยจากชื่อหรือคำค้น", "กรองตามรุ่นที่สนใจ", "อ่านออนไลน์แบบพลิกหน้าหนังสือ"], "system": ["โฮสต์บน Vercel", "ตัวอ่านแบบพลิกหน้า (flipbook) ในเบราว์เซอร์", "สร้างด้วย AI"], "benefit": ["งานวิจัยอยู่ที่เดียว จัดตามรุ่น", "อ่านได้ทันทีในเบราว์เซอร์", "หน่วยงานใช้เป็นคลังเก็บงานได้จริง"], "tags": ["Vercel", "Flipbook"], "link": "https://psyio-research-archive-4yto1ylgq-tanawat1.vercel.app/?batch=64", "linkLabel": "เปิดเว็บ", "media": [{"type": "image", "src": "media/research-cover.jpg", "w": 896, "h": 370}, {"type": "image", "src": "media/research-steps.jpg", "w": 1600, "h": 479, "cap": "ขั้นตอนการใช้งาน"}, {"type": "image", "src": "media/research-admin.jpg", "w": 1636, "h": 1382, "cap": "ระบบหลังบ้าน (เบลอข้อมูลส่วนตัวแล้ว)"}], "purpose": "เป็นคลังเก็บงานวิจัยของหน่วยงาน ให้ค้นหาและอ่านออนไลน์ได้ในที่เดียว", "details": ["ค้นหางานวิจัยจากชื่อหรือคำค้น", "กรองตามรุ่นที่สนใจ", "อ่านออนไลน์แบบพลิกหน้าหนังสือ (flipbook) ในเบราว์เซอร์", "โฮสต์บน Vercel · สร้างด้วย AI"]}, {"id": "w-booth", "folder": "code", "title": "Bordeaux Booth", "sub": "เครื่องมือ · ใช้งานจริง", "summary": "ตู้ถ่ายรูปออนไลน์ ถ่ายเดี่ยวหรือหลายกล้อง แต่งกรอบ สติกเกอร์ แล้วบันทึกลงเครื่อง", "how": ["เลือกโหมดและกรอบ แล้วอนุญาตกล้อง", "ถ่ายเดี่ยวหรือถ่ายกลุ่มด้วยกล้องตัวเดียว", "สร้างห้องหลายกล้องด้วยรหัส 6 หลัก", "แต่งกรอบ สติกเกอร์ ข้อความ แล้วบันทึก"], "system": ["รันบนเบราว์เซอร์ ไม่ต้องติดตั้งแอป", "ประมวลผลภาพบนเครื่องผู้ใช้", "Firebase Hosting"], "benefit": ["ไม่เก็บรูปไว้บนคลาวด์", "ใช้ฟรี ไม่ต้องติดตั้ง", "ถ่ายหลายมุมได้ด้วยหลายกล้อง"], "tags": ["Firebase", "Camera"], "link": "https://photobooth-35ff4.web.app", "linkLabel": "เปิดเว็บ", "media": [{"type": "image", "src": "media/booth-cover.jpg", "w": 1280, "h": 529}, {"type": "image", "src": "media/booth-steps.jpg", "w": 1600, "h": 4557, "cap": "ขั้นตอนการใช้งาน"}], "purpose": "ให้ทุกคนถ่ายรูปแบบตู้ถ่ายรูปได้ในเบราว์เซอร์ ฟรี ไม่ต้องติดตั้งแอป และไม่เก็บรูปไว้บนคลาวด์", "details": ["โหมดถ่ายเดี่ยว ถ่ายกลุ่มด้วยกล้องตัวเดียว หรือสร้างห้องหลายกล้องด้วยรหัส 6 หลัก", "เลือกกรอบ ใส่สติกเกอร์และข้อความ แล้วบันทึกลงเครื่อง", "ประมวลผลภาพบนเครื่องผู้ใช้", "โฮสต์บน Firebase Hosting"]}, {"id": "w-gift", "folder": "code", "title": "ขอเป็นแฟน (เว็บของขวัญ)", "sub": "ร้านค้า · ใช้งานจริง", "summary": "เว็บของขวัญที่ผู้ซื้อแต่งข้อความ เพลง และจดหมาย แล้วส่งให้คนพิเศษด้วยลิงก์เดียว", "how": ["ผู้ซื้อเขียนข้อความ เลือกเพลง จดหมาย และสไตล์", "ได้ลิงก์ไปส่งให้คนพิเศษ", "ผู้รับเปิดซอง อ่านจดหมาย และฟังเพลง"], "system": ["Firebase เป็นระบบหลังบ้าน", "ชำระผ่านพร้อมเพย์ ตรวจสลิปแล้วจึงส่งลิงก์", "สร้างด้วย AI"], "benefit": ["ไม่ต้องล็อกอินให้ยุ่งยาก", "ส่งของขวัญได้ด้วยลิงก์เดียว", "ปรับแต่งข้อความ เพลง และสไตล์ได้"], "tags": ["Firebase", "PromptPay"], "link": "https://warilove-64b8c.web.app/", "linkLabel": "เปิดเว็บ", "media": [{"type": "image", "src": "media/gift-cover.jpg", "w": 1280, "h": 529}, {"type": "image", "src": "media/gift-steps.jpg", "w": 1600, "h": 914, "cap": "ขั้นตอนการใช้งาน"}], "purpose": "ให้ผู้ซื้อทำของขวัญออนไลน์ส่วนตัว ด้วยข้อความ เพลง และจดหมายของตัวเอง แล้วส่งให้คนพิเศษด้วยลิงก์เดียว", "details": ["ผู้ซื้อเขียนข้อความ เลือกเพลง จดหมาย และสไตล์", "ชำระเงินผ่านพร้อมเพย์ ตรวจสลิปแล้วจึงส่งลิงก์ให้", "ผู้รับเปิดซอง อ่านจดหมาย และฟังเพลง", "ไม่ต้องล็อกอินให้ยุ่งยาก", "ใช้ Firebase เป็นระบบหลังบ้าน · สร้างด้วย AI"]}, {"id": "w-audio", "folder": "code", "title": "หนังสือเสียง", "sub": "เว็บแพลตฟอร์ม · ใช้งานจริง", "summary": "นักเขียนโพสต์บท นักลงเสียงอัดเสียง และผู้ฟังฟังได้ฟรี", "how": ["นักเขียนโพสต์บท เช่น นิทาน บทความ เรื่องสั้น หนังสือ", "นักลงเสียงเลือกตอนแล้วอัดเสียง บทเดียวมีหลายเวอร์ชันได้", "ผู้ฟังติดตามนักเขียนและนักลงเสียง แล้วฟังฟรี"], "system": ["Vercel โฮสต์เว็บ", "Supabase เก็บข้อมูลและระบบล็อกอิน", "แจ้งลบงานละเมิดลิขสิทธิ์ผ่านเว็บ"], "benefit": ["เป็นพอร์ตให้นักเขียนและนักลงเสียง", "ฟังฟรี ผู้พิการทางสายตาเข้าถึงได้", "สร้างร่วมกันแบบอาสา"], "tags": ["Vercel", "Supabase"], "link": "https://nangsue-siang.vercel.app", "linkLabel": "เปิดเว็บ", "media": [{"type": "image", "src": "media/audio-cover.jpg", "w": 1280, "h": 529}, {"type": "image", "src": "media/audio-steps.jpg", "w": 1600, "h": 1555, "cap": "ขั้นตอนการใช้งาน"}], "purpose": "เป็นพื้นที่สร้างหนังสือเสียงร่วมกันแบบอาสา ให้นักเขียนกับนักลงเสียงมาเจอกัน และให้ผู้ฟังฟังได้ฟรี", "details": ["นักเขียนโพสต์บท เช่น นิทาน บทความ เรื่องสั้น หนังสือ", "นักลงเสียงเลือกตอนแล้วอัดเสียง บทเดียวมีหลายเวอร์ชันได้", "ผู้ฟังติดตามนักเขียนและนักลงเสียง แล้วฟังฟรี ผู้พิการทางสายตาเข้าถึงได้", "มีช่องทางแจ้งลบงานละเมิดลิขสิทธิ์ผ่านเว็บ", "ใช้ Vercel และ Supabase (ข้อมูลและระบบล็อกอิน)"]}, {"id": "w-team", "folder": "code", "title": "เลือกทีม FT20", "sub": "เครื่องมือ · ทำเสร็จแล้ว", "summary": "ฟอร์มให้สมาชิกเลือกทีมอันดับ 1 และ 2 ให้แอดมินดูผลสรุปก่อนจัดทีม", "how": ["สมาชิกเปิดฟอร์มและเลือกชื่อตัวเอง", "เลือกทีมอันดับ 1 และ 2 แล้วกดส่ง", "แอดมินดูผลทีมล่าสุดได้ในหน้าเดียว"], "system": ["Google Apps Script เป็นเว็บแอป", "Google Sheets เก็บคำตอบ", "สร้างด้วย AI"], "benefit": ["รวมความต้องการของทุกคนไว้ที่เดียว", "เห็นอันดับ 1 และ 2 ก่อนจัดทีม", "ใช้ฟรี ไม่ต้องมีเซิร์ฟเวอร์เอง"], "tags": ["Apps Script", "Google Sheets"], "link": "https://script.google.com/macros/s/AKfycbz0T4jRHH7WRdaFvMmmVgRewIBdmxO30Ai-01auACX4EjLFcs1Ut-0WgAr3H-kJeeo0/exec", "linkLabel": "เปิดฟอร์ม", "media": [{"type": "image", "src": "media/team-cover.jpg", "w": 896, "h": 370}, {"type": "image", "src": "media/team-steps.jpg", "w": 1600, "h": 476, "cap": "ขั้นตอนการใช้งาน"}], "purpose": "รวมความต้องการของสมาชิกไว้ที่เดียว เพื่อให้แอดมินดูผลสรุปก่อนจัดทีม FT20", "details": ["สมาชิกเปิดฟอร์มและเลือกชื่อตัวเอง", "เลือกทีมอันดับ 1 และอันดับ 2 แล้วกดส่ง", "แอดมินดูผลทีมล่าสุดได้ในหน้าเดียว", "ใช้ Google Apps Script เป็นเว็บแอป และเก็บคำตอบใน Google Sheets", "สร้างด้วย AI"]}, {"id": "w-coursehub", "folder": "code", "title": "CourseHub — ระบบบริหารหลักสูตร", "sub": "ระบบบริหารงาน", "summary": "เว็บรวมการจัดการงาน ประกาศ ปฏิทิน การเงิน และสมาชิกของทุกฝ่ายไว้ในที่เดียว", "purpose": "ให้ทีมจัดหลักสูตรจัดการงาน ประสานทีม ติดตามเงิน และดูแลสมาชิกทุกฝ่ายได้ในที่เดียว", "details": ["มี 11 ฝ่ายงาน มอบหมายงานให้หลายฝ่าย ตั้งความสำคัญและกำหนดส่งได้", "มีประกาศ ปฏิทินกิจกรรม การลงทะเบียนกิจกรรม และบันทึกการประชุม", "การเงิน: รายรับ รายจ่าย ยอดคงเหลือ งบแต่ละฝ่าย และรายชื่อผู้ยังไม่จ่ายเงิน", "สร้างแบบฟอร์ม แชร์ลิงก์ ดูผลตอบกลับ และมีห้องแชท", "หัวหน้าฝ่ายอนุมัติงาน มีประวัติการใช้งาน ห้อง Admin และคู่มือแยกตามบทบาท", "สลับโหมดสว่าง/มืดได้ ข้อมูลในภาพเป็นข้อมูลทดสอบ", "สร้างด้วย AI"], "how": ["เข้าสู่ระบบด้วยรหัสสมาชิก", "ดูแดชบอร์ดสรุปงาน ประกาศ และการเงิน", "มอบหมายงานให้ฝ่ายต่างๆ แล้วติดตามผล"], "system": ["Firebase (Sync ข้อมูลแบบเรียลไทม์)", "เว็บแอปบน Firebase Hosting", "สร้างด้วย AI"], "benefit": ["รวมงานของทุกฝ่ายไว้ที่เดียว", "เห็นงบและยอดเงินชัดเจน", "แยกสิทธิ์ตามบทบาท"], "tags": ["Firebase"], "link": "https://papa-411de.web.app/", "linkLabel": "เปิดเว็บ", "media": [{"type": "image", "src": "media/coursehub-cover.jpg", "w": 1280, "h": 507}, {"type": "image", "src": "media/coursehub-steps.jpg", "w": 1600, "h": 2845, "cap": "ขั้นตอนการใช้งาน"}]}]}</script>
 <script>
 (function(){
 "use strict";
